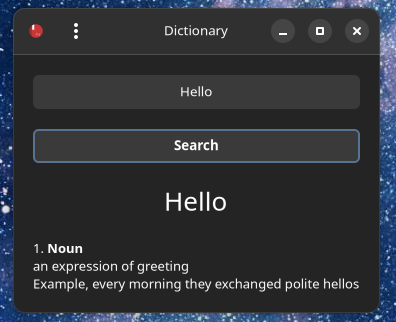
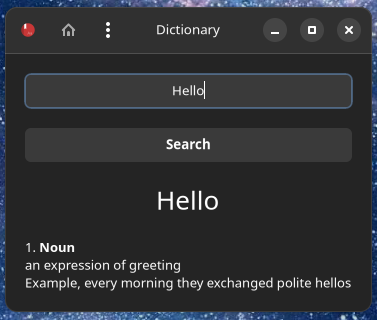
Add: Recently Searched

diff --git a/src/app.py b/src/app.py
@@ -1,24 +1,30 @@
 import sys
 import os
 import gi
-gi.require_version('Gtk', '4.0')
-gi.require_version('Adw', '1')
+
+gi.require_version("Gtk", "4.0")
+gi.require_version("Adw", "1")
 from gi.repository import Gtk, Adw, Gio, Gdk
 
 import utils
 
+
 class MainWindow(Gtk.ApplicationWindow):
     def __init__(self, *args, **kwargs):
         super().__init__(*args, **kwargs)
-        self.set_icon_name('dictionary') # Should load icon from the system since Dictionary is a pretty common icon.
+        self.set_icon_name("dictionary")
 
-        self.headerBar=Gtk.HeaderBar()
+        self.headerBar = Gtk.HeaderBar()
         self.headerBar.set_show_title_buttons(True)
-        titleWidget=Gtk.Label.new("Dictionary")
-        self.headerBar.props.title_widget=titleWidget
+        titleWidget = Gtk.Label.new("Dictionary")
+        self.headerBar.props.title_widget = titleWidget
         self.set_titlebar(self.headerBar)
 
-        aboutAction=Gio.SimpleAction.new("showabout", None)
+        self.headerGoHome = Gtk.Button(label="")
+        self.headerGoHome.set_icon_name("go-home")
+        self.headerGoHome.connect("clicked", self.show_history)
+        self.headerBar.pack_start(self.headerGoHome)
+        aboutAction = Gio.SimpleAction.new("showabout", None)
         aboutAction.connect("activate", self.show_about)
         self.add_action(aboutAction)
         # showSetLang=Gio.SimpleAction.new("showSetLang", None)
@@ -27,13 +33,13 @@ class MainWindow(Gtk.ApplicationWindow):
         menu = Gio.Menu.new()
         # menu.append("Set Language", "win.showSetLang")
         menu.append("About", "win.showabout")
-        self.popover=Gtk.PopoverMenu()
+        self.popover = Gtk.PopoverMenu()
         self.popover.set_menu_model(menu)
-        self.hamburger=Gtk.MenuButton()
+        self.hamburger = Gtk.MenuButton()
         self.hamburger.set_popover(self.popover)
         self.hamburger.set_icon_name("open-menu-symbolic")
         self.headerBar.pack_start(self.hamburger)
-        
+
         self.mainBox = Gtk.Box(orientation=Gtk.Orientation.VERTICAL)
         self.set_child(self.mainBox)
         self.mainBox.set_spacing(20)
@@ -42,72 +48,137 @@ class MainWindow(Gtk.ApplicationWindow):
         self.mainBox.set_margin_top(20)
         self.mainBox.set_margin_bottom(20)
 
-        self.mainSearchEntry=Gtk.Entry()
+        self.mainSearchEntry = Gtk.Entry()
         self.mainSearchEntry.set_placeholder_text("What do you want to search for?")
-        self.mainSearchEntry.props.xalign=0.5 # Center text
+        self.mainSearchEntry.props.xalign = 0.5  # Center text
         self.mainBox.append(self.mainSearchEntry)
 
-        self.mainSearchButton=Gtk.Button(label="Search")
+        self.mainSearchButton = Gtk.Button(label="Search")
         self.mainBox.append(self.mainSearchButton)
-        self.mainSearchButton.connect('clicked', self.find_word)        
+        self.mainSearchButton.connect("clicked", self.find_word)
 
-        self.foundBox=None
-    
+        self.foundBox = None
+        self.historyBox = None
+
+        self.show_history()
+
+    def show_history(self, action=None, pref=None):
+        if self.foundBox != None:
+            self.mainBox.remove(self.foundBox)
+            self.foundBox = None
+        if self.historyBox != None:
+            self.mainBox.remove(self.historyBox)
+            self.historybox = None
+        self.historyBox = Gtk.Box(orientation=Gtk.Orientation.VERTICAL)
+        self.historyBox.set_spacing(20)
+        self.mainBox.append(self.historyBox)
+        subHistoryBox = Gtk.Box(orientation=Gtk.Orientation.HORIZONTAL)
+        subHistoryBox.set_spacing(20)
+        previousSearchText = Gtk.Label()
+        previousSearchText.set_markup(
+            '<span size="10500"><b>Recently Searched</b></span>'
+        )
+        self.historyBox.append(previousSearchText)
+        subHistoryBox = Gtk.FlowBox(orientation=Gtk.Orientation.HORIZONTAL)
+        subHistoryBox.set_row_spacing(20)
+        subHistoryBox.set_column_spacing(20)
+        if len(utils.currentHist) == 0:
+            historyEmptyLabel = Gtk.Label()
+            historyEmptyLabel.set_markup('<span size="10000">Nothing in history</span>')
+            self.historyBox.append(historyEmptyLabel)
+            return
+        for item in utils.currentHist:
+            hist_btn = Gtk.Button(label="")
+            hist_btn.get_child().set_markup(f'<span size="9000">{item}</span>')
+            hist_btn.connect("clicked", self.find_word, item)
+            subHistoryBox.append(hist_btn)
+        self.historyBox.append(subHistoryBox)
+        clearHistBtn = Gtk.Button(label="")
+        clearHistBtn.get_child().set_markup(f'<span size="9500">Clear History</span>')
+        clearHistBtn.connect("clicked", self.clearHistory)
+        self.historyBox.append(clearHistBtn)
+
+    def clearHistory(self, action=None, pref=None):
+        utils.clear_history("en")  # Handle language by user preference
+        self.show_history()
+
     def show_about(self, action, pref):
         self.about = Gtk.AboutDialog()
-        self.about.set_transient_for(self)  # Makes the dialog always appear in from of the parent window
-        self.about.set_modal(self)  # Makes the parent window unresponsive while dialog is showing
+        self.about.set_transient_for(
+            self
+        )  # Makes the dialog always appear in from of the parent window
+        self.about.set_modal(
+            self
+        )  # Makes the parent window unresponsive while dialog is showing
 
         self.about.set_authors(["Nannan"])
         self.about.set_program_name("Dictionary")
         self.about.set_license_type(Gtk.License.MPL_2_0)
-        self.about.set_website("http://www.github.com/nanna7077") # Change to repo link later
+        self.about.set_website("http://www.github.com/nanna7077/Dictionary")
         self.about.set_website_label("GitHub")
         self.about.set_version("1.0")
-        self.about.set_logo_icon_name("org.ghosty.Dictionary")  # The icon will need to be added to appropriate location
-                                                 # E.g. /usr/share/icons/hicolor/scalable/apps/org.example.example.svg
+        self.about.set_logo_icon_name("Dictionary")
         self.about.show()
-    
-    def find_word(self, action):
-        searchTerm=self.mainSearchEntry.get_text()
-        if searchTerm==None or len(searchTerm.strip())==0:
-            self.mainSearchEntry.grab_focus()
-            return
+
+    def find_word(self, action=None, passedSearchTerm_=None):
+        passedSearchTerm = passedSearchTerm_
+        if self.historyBox != None:
+            self.mainBox.remove(self.historyBox)
+            self.historyBox = None
         # Use language specific handler from user preference
-        word, wordData, directFind=utils.en_search(searchTerm) # Use language specific search and handler's from user preference.
-        if self.foundBox!=None:
+        if passedSearchTerm != None:
+            searchTerm = passedSearchTerm
+            word, wordData, directFind = utils.en_search(passedSearchTerm)
+        else:
+            searchTerm = self.mainSearchEntry.get_text()
+            if searchTerm == None or len(searchTerm.strip()) == 0:
+                self.mainSearchEntry.grab_focus()
+                return
+            word, wordData, directFind = utils.en_search(
+                searchTerm
+            )  # Use language specific search and handler's from user preference.
+        if self.foundBox != None:
             self.mainBox.remove(self.foundBox)
-            self.foundBox=None
-        self.foundBox=Gtk.Box(orientation=Gtk.Orientation.VERTICAL)
+            self.foundBox = None
+        self.foundBox = Gtk.Box(orientation=Gtk.Orientation.VERTICAL)
         self.foundBox.set_spacing(20)
         self.mainBox.append(self.foundBox)
         if not directFind:
-            notDirectFind=Gtk.Label()
-            notDirectFind.set_markup(f"<span size=\"10000\">Could not find <i>{searchTerm}</i>, did you mean <b>{word}</b>?</span>")
+            notDirectFind = Gtk.Label()
+            notDirectFind.set_markup(
+                f'<span size="10000">Could not find <i>{searchTerm}</i>, did you mean <b>{word}</b>?</span>'
+            )
             self.foundBox.append(notDirectFind)
-        self.wordDisp=Gtk.Label()
-        self.wordDisp.set_markup(f"<span size=\"20000\">{word}</span>")
+        self.wordDisp = Gtk.Label()
+        self.wordDisp.set_markup(f'<span size="20000">{word}</span>')
         self.foundBox.append(self.wordDisp)
-        c=1
-        for i in wordData['MEANINGS']:
-            meaningDisp=Gtk.Label()
-            meaningDisp.set_markup(f"<span size=\"10000\">{c}. <b>{wordData['MEANINGS'][i][0]}</b>\n{wordData['MEANINGS'][i][1]}\nExample, {'; '.join(wordData['MEANINGS'][i][3])}</span>")
+        c = 1
+        for i in wordData["MEANINGS"]:
+            meaningDisp = Gtk.Label()
+            meaningDisp.set_markup(
+                f"<span size=\"10000\">{c}. <b>{wordData['MEANINGS'][i][0]}</b>\n{wordData['MEANINGS'][i][1]}\nExample, {'; '.join(wordData['MEANINGS'][i][3])}</span>"
+            )
             self.foundBox.append(meaningDisp)
-            c+=1
+            c += 1
+        utils.save_history(
+            "en", searchTerm
+        )  # Change to dynamic based on user preferred language
 
     def on_activate(self, app):
         if not self.win:
-            self.win=MainWindow(application=app)
+            self.win = MainWindow(application=app)
         self.win.present()
+
 
 class App(Adw.Application):
     def __init__(self, **kwargs):
         super().__init__(**kwargs)
-        self.connect('activate', self.on_activate)
+        self.connect("activate", self.on_activate)
 
     def on_activate(self, app):
         self.win = MainWindow(application=app)
         self.win.present()
+
 
 app = App(application_id="com.ghosty.Dictionary")
 app.run(sys.argv)

diff --git a/src/utils.py b/src/utils.py
@@ -1,17 +1,70 @@
 import json
+import os
 from difflib import get_close_matches
 
-dict_en={}
+dict_en = {}
+currentHist = []
+
+
+def load_history(language):
+    global currentHist
+    if os.name == "posix":
+        histfile = os.path.expanduser(f"~/.dictionaryHist{language}")
+    else:
+        # Implemenet for others
+        return
+    try:
+        with open(histfile, "r") as f:
+            currentHist = [l.strip() for l in f.readlines()]
+            currentHist = currentHist[::-1]
+    except:
+        return
+
+
+def save_history(language, word):
+    global currentHist
+    if word in currentHist:
+        currentHist.remove(word)
+    if os.name == "posix":
+        histfile = os.path.expanduser(f"~/.dictionaryHist{language}")
+    else:
+        # Implemenet for others
+        return
+    if len(currentHist) >= 25:
+        currentHist = currentHist[0:24]
+    currentHist = currentHist[::-1]
+    currentHist.append(word.lower().title())
+    with open(histfile, "w") as f:
+        for i in currentHist:
+            f.write(i)
+            f.write("\n")
+    currentHist = currentHist[::-1]
+
+
+def clear_history(language):
+    global currentHist
+    if os.name == "posix":
+        histfile = os.path.expanduser(f"~/.dictionaryHist{language}")
+    else:
+        # Implemenet for others
+        return
+    with open(histfile, "w") as f:
+        f.truncate(0)
+    currentHist = []
+
 
 def en_search(word):
-    word=word.upper()
+    word = word.upper()
     if word in dict_en:
         return word.lower().title(), dict_en[word], True
-    closest_match=get_close_matches(word, dict_en.keys())[0]
-    if closest_match!=None:
+    closest_match = get_close_matches(word, dict_en.keys())[0]
+    if closest_match != None:
         return closest_match.lower().title(), dict_en[closest_match], False
 
-#Loading EN Dictionary, loading can be changed into based on user preference in the future when support for other language are added.
 
-with open('en.json', 'r') as en_txt:
-    dict_en=json.loads(en_txt.read())
+# Loading EN Dictionary, loading can be changed into based on user preference in the future when support for other language are added.
+
+with open("en.json", "r") as en_txt:
+    dict_en = json.loads(en_txt.read())
+
+load_history("en")  # Change to be based on user preference.

diff --git a/README.md b/README.md
@@ -6,10 +6,12 @@ A dictionary application using GTK4
 
 ![Demo Image 1](https://github.com/nanna7077/Dictionary/raw/main/screenshots/1.png?raw=true)
 ![Demo Image 2](https://github.com/nanna7077/Dictionary/raw/main/screenshots/2.png?raw=true)
+![Demo Image 3](https://github.com/nanna7077/Dictionary/raw/main/screenshots/3.png?raw=true)
 
 ### ToDo
 
 - [ ] Bring support for other languages
-- [ ] Show search history and add private mode
+- [x] Show search history
+- [ ] Add private mode
 
 If you are willing to help with adding your language to this Dictionary, please create an issue!
